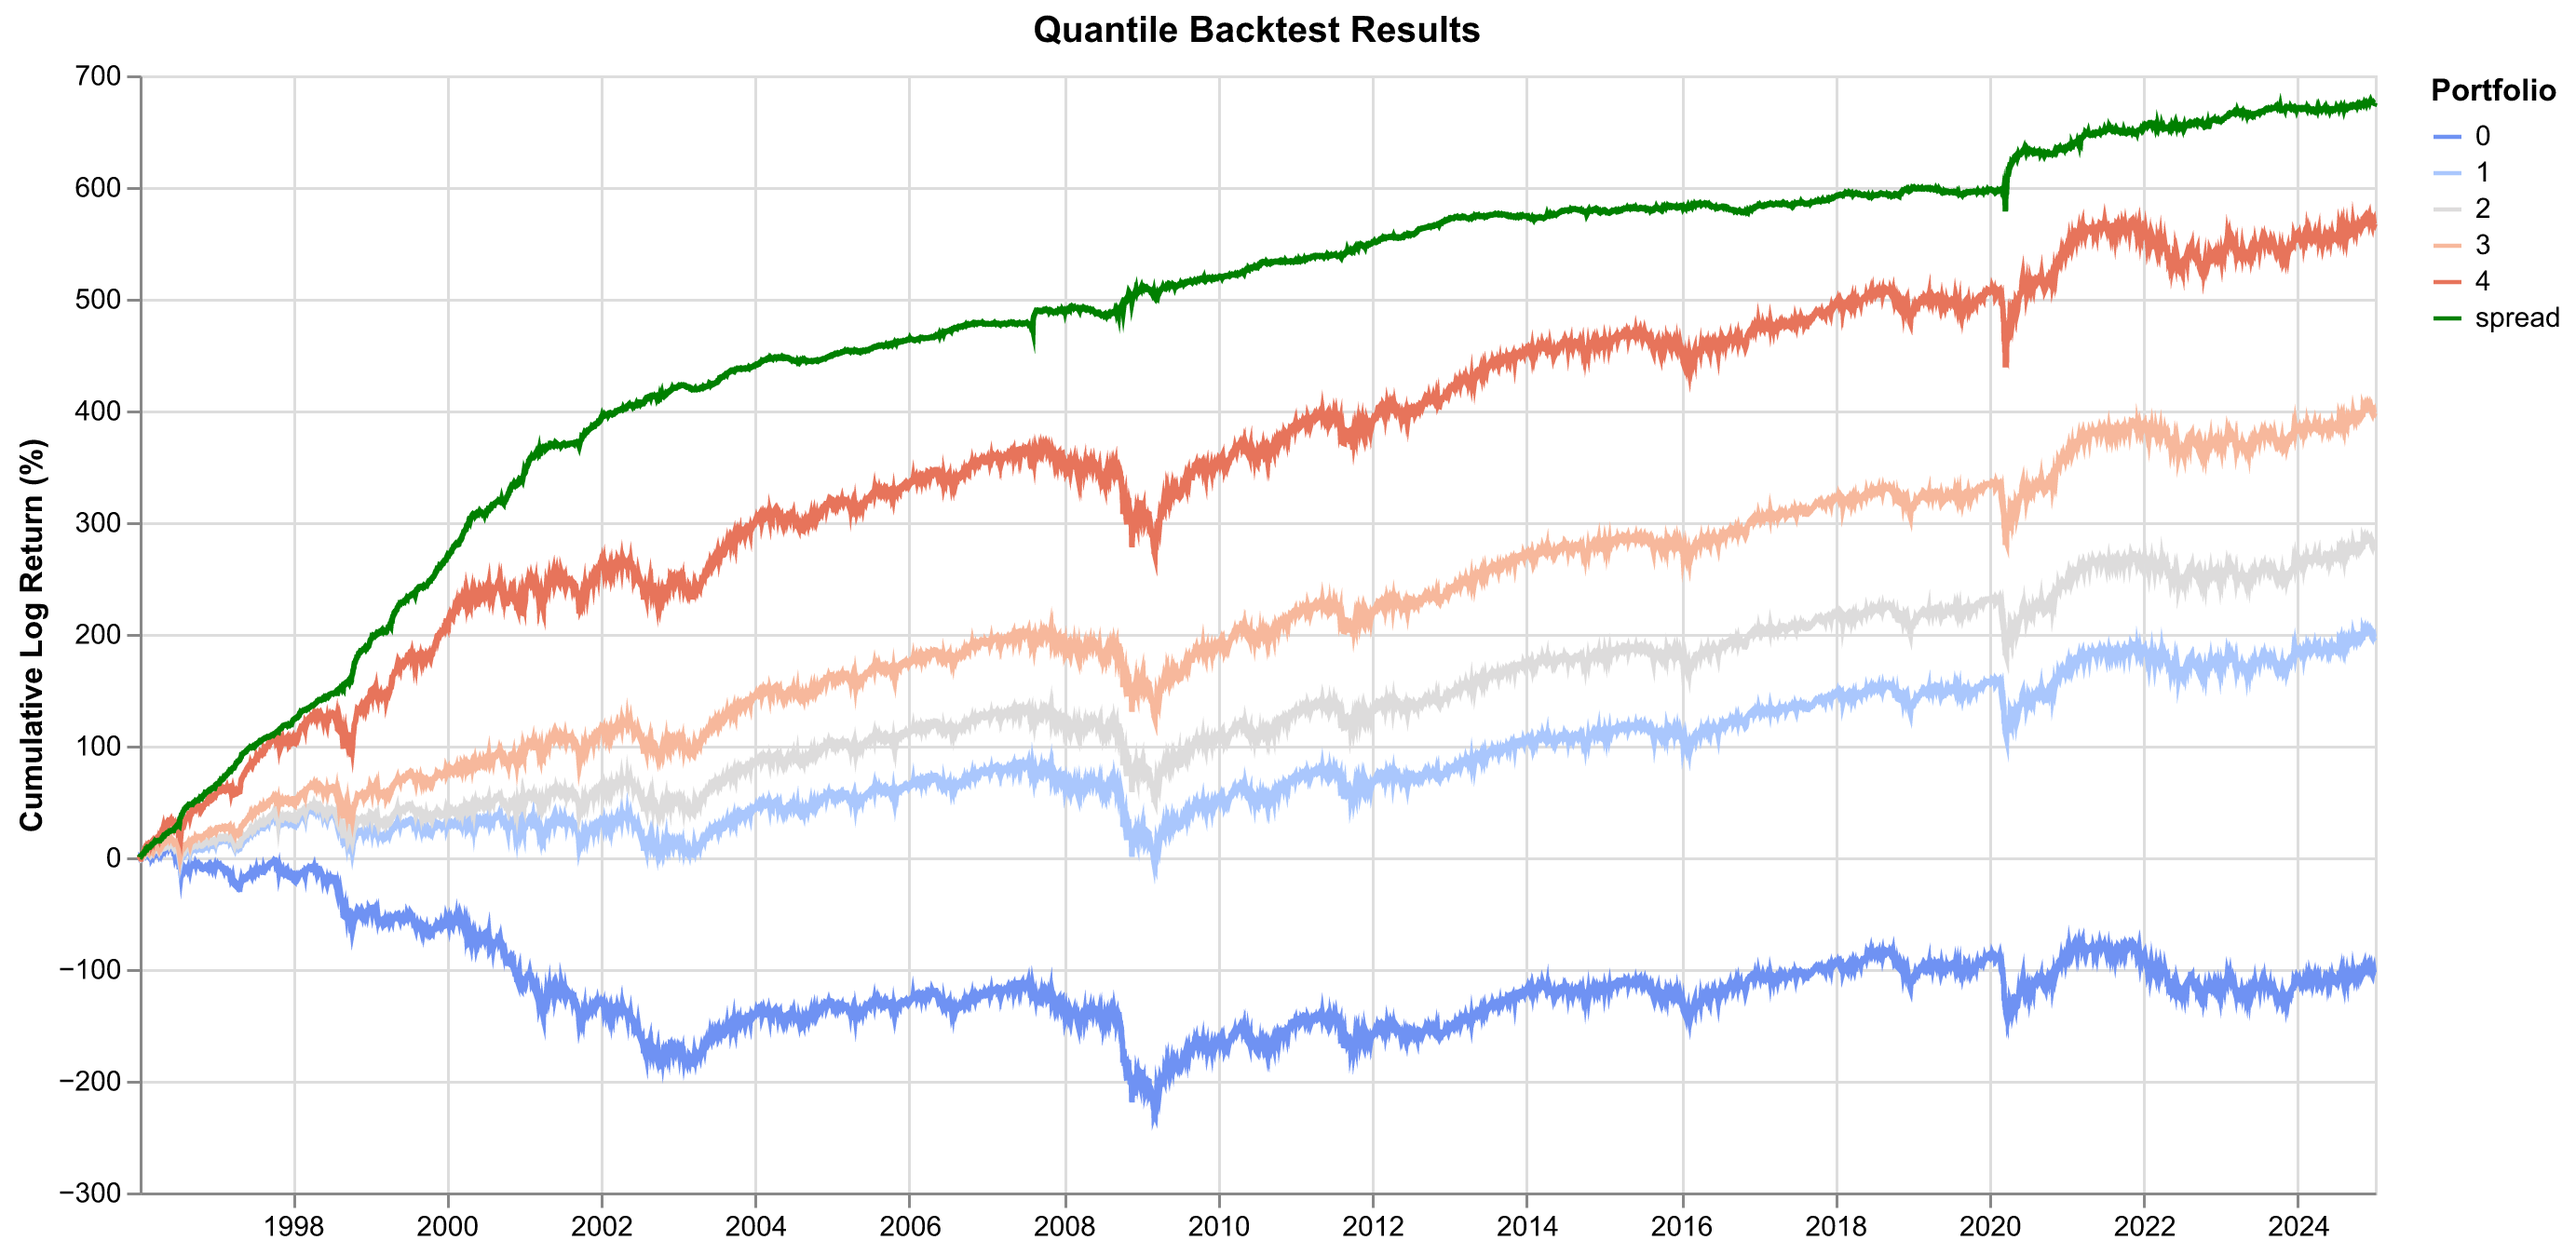
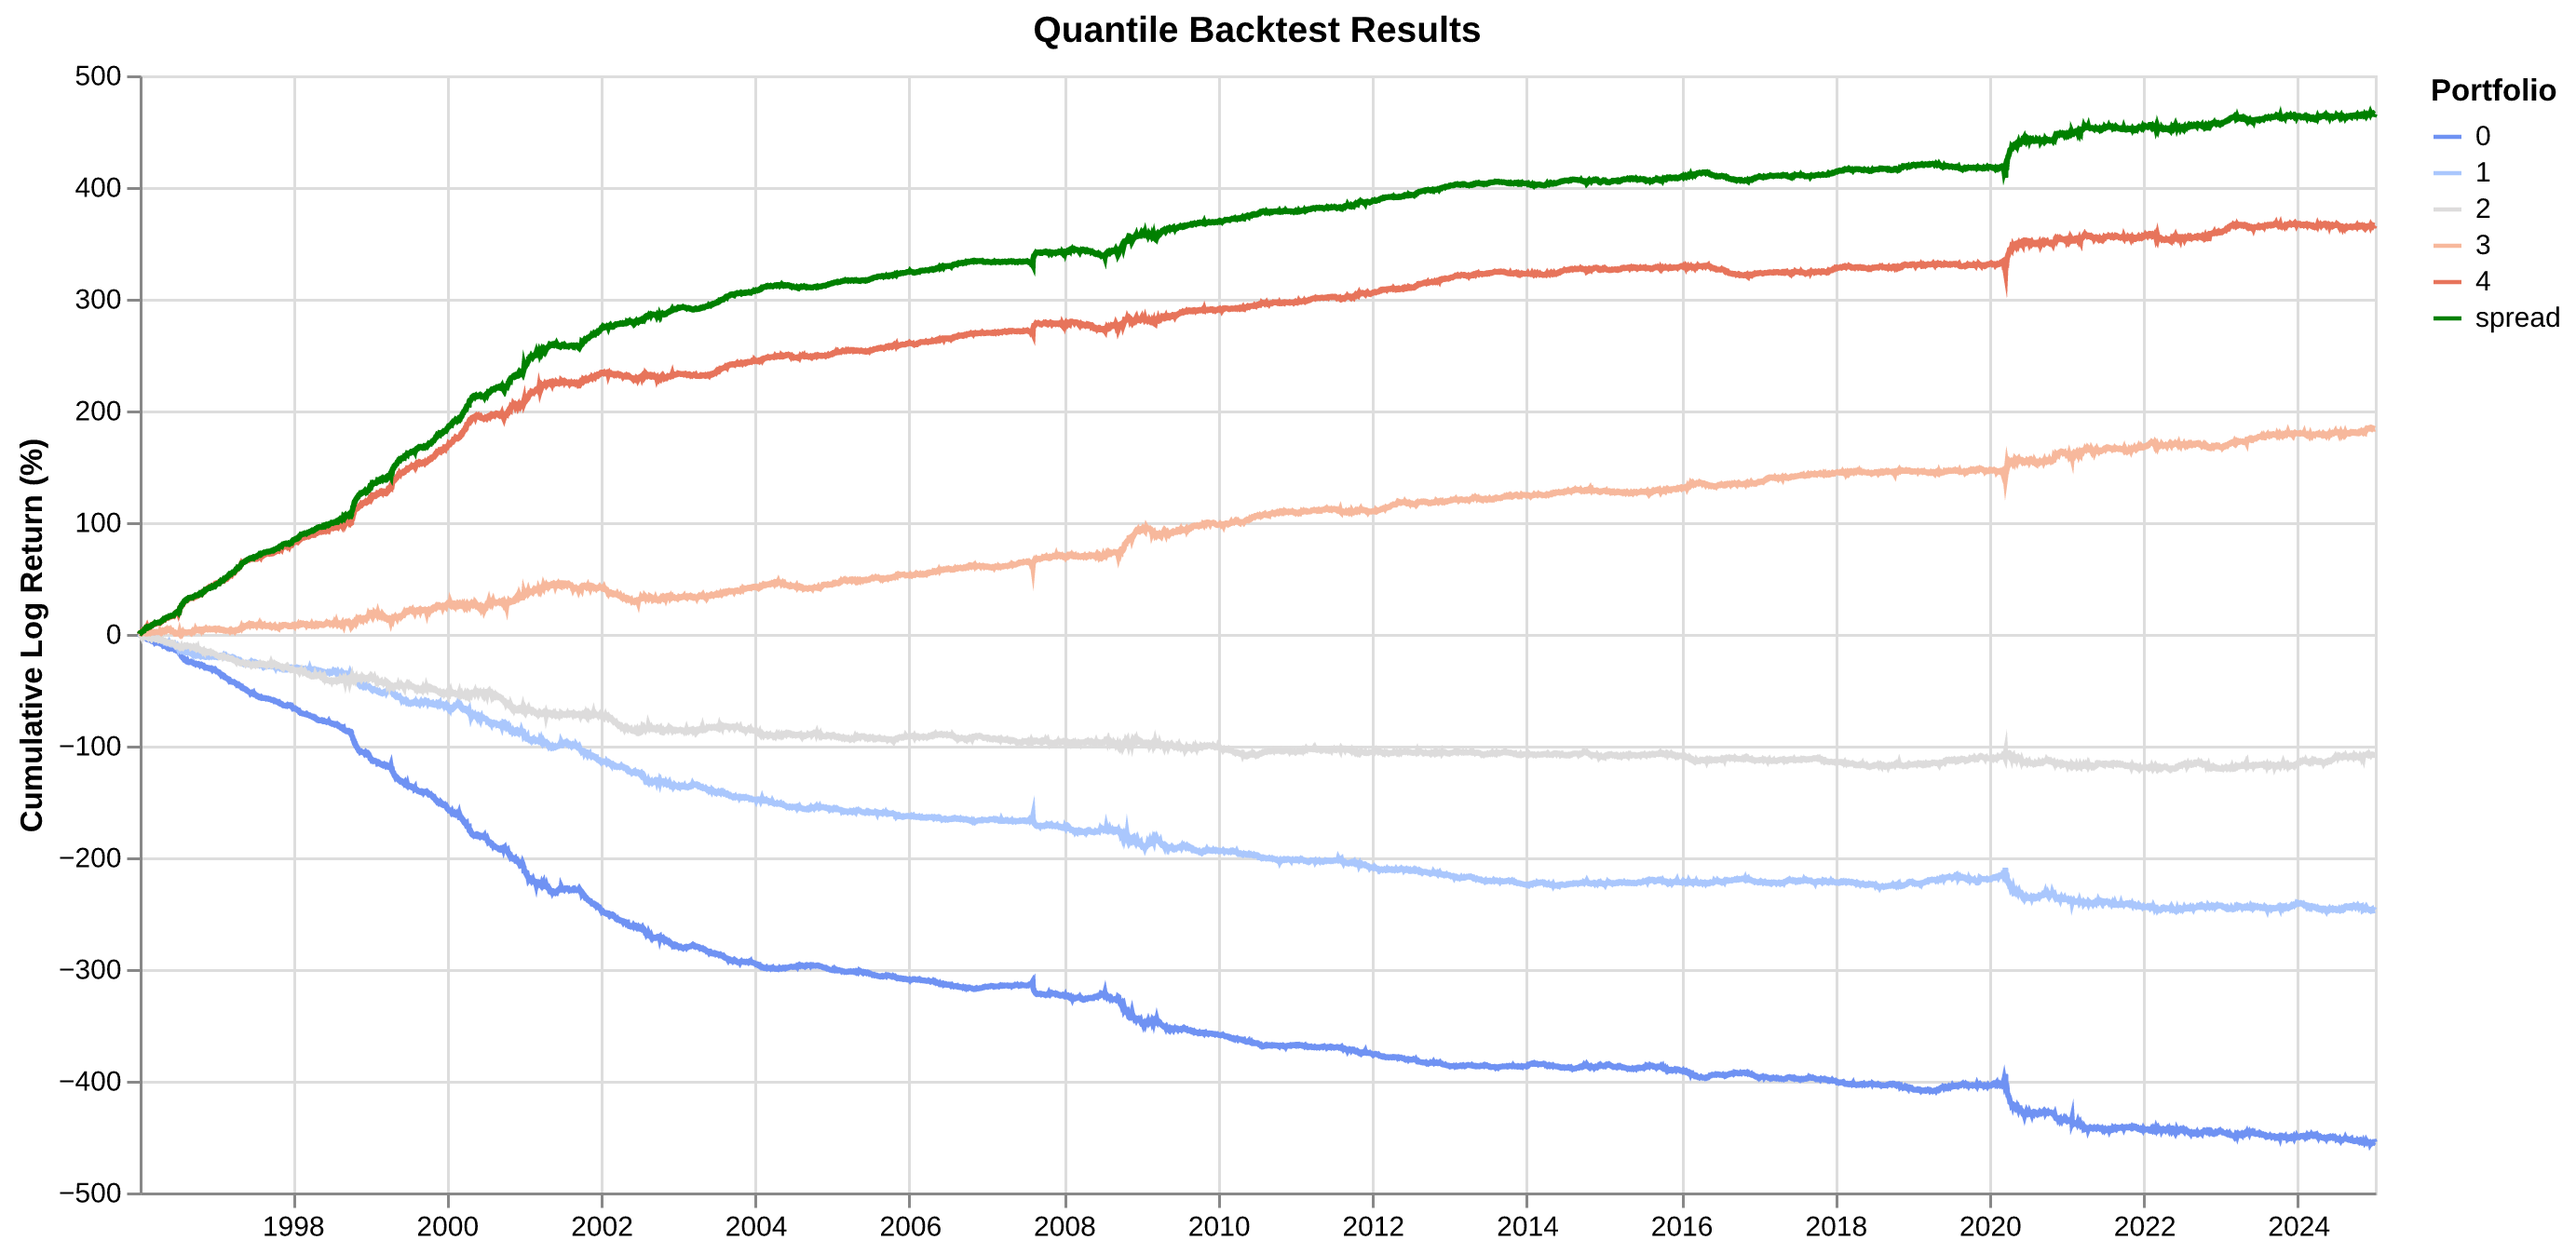
Added beta and vol adjustments.

diff --git a/research/experiments/experiment_2.py b/research/experiments/experiment_2.py
@@ -27,11 +27,10 @@ data = sfd.load_assets(
         "barrid",
         "ticker",
         "price",
-        "return",
         "specific_return",
     ],
     in_universe=True,
-).with_columns(pl.col("return").truediv(100), pl.col("specific_return").truediv(100))
+).with_columns(pl.col("specific_return").truediv(100))
 
 # Compute signal
 signals = data.sort("barrid", "date").with_columns(
@@ -58,10 +57,15 @@ portfolios = filtered.with_columns(
 # Compute portfolio returns
 returns = (
     portfolios.group_by("date", "bin")
-    .agg(pl.col("return").mean())
-    .pivot(on="bin", index="date", values="return")
+    .agg(pl.col("specific_return").mean())
+    .pivot(on="bin", index="date", values="specific_return")
     .with_columns(pl.col(str(num_bins - 1)).sub(pl.col("0")).alias("spread"))
-    .unpivot(index="date", variable_name="bin", value_name="return")
+    .unpivot(index="date", variable_name="bin", value_name="specific_return")
+    .with_columns(
+        pl.col("specific_return")
+        .truediv(pl.col("specific_return").std().mul(317))
+        .over("bin")
+    )
     .sort("date", "bin")
 )
 
@@ -69,7 +73,12 @@ returns = (
 cumulative_returns = returns.sort("date", "bin").select(
     "date",
     "bin",
-    pl.col("return").log1p().cum_sum().mul(100).over("bin").alias("cumulative_return"),
+    pl.col("specific_return")
+    .log1p()
+    .cum_sum()
+    .mul(100)
+    .over("bin")
+    .alias("cumulative_return"),
 )
 
 # Plot cumulative log returns
@@ -98,8 +107,8 @@ chart.save(chart_path, scale_factor=3)
 summary = (
     returns.group_by("bin")
     .agg(
-        pl.col("return").mean().mul(252).alias("mean_return"),
-        pl.col("return").std().mul(pl.lit(252).sqrt()).alias("volatility"),
+        pl.col("specific_return").mean().mul(252).alias("mean_return"),
+        pl.col("specific_return").std().mul(pl.lit(252).sqrt()).alias("volatility"),
     )
     .with_columns(pl.col("mean_return").truediv(pl.col("volatility")).alias("sharpe"))
     .sort("bin", descending=True)
